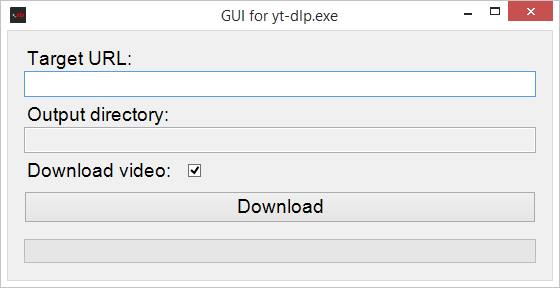
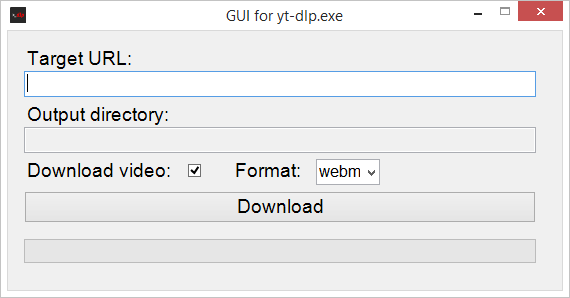
Added format selection

diff --git a/yt-dlp-gui.cs b/yt-dlp-gui.cs
@@ -33,6 +33,8 @@ namespace Lafika
 		private static TextBox Link;
 		private static Label DirectoryLabel;
 		private static TextBox Directory;
+		private static Label FormatLabel;
+		private static ComboBox Format;
 		private static Label DownloadVideoLabel;
 		private static CheckBox DownloadVideo;
 		private static Button Download;
@@ -81,6 +83,33 @@ namespace Lafika
 			}
 		}
 		
+		// Download video checkbox pressed event function
+		private static void Checkbox_Pressed(Object Sender, EventArgs Arguments)
+		{
+			if(DownloadVideo.Checked == true)
+			{
+				Format.Items.Clear();
+				Format.ResetText();
+				Format.Items.Add("webm");
+				Format.Items.Add("mp4");
+				Format.Items.Add("mkv");
+				Format.Items.Add("mov");
+				Format.Items.Add("avi");
+				Format.SelectedIndex = 0;
+			}
+			else
+			{
+				Format.Items.Clear();
+				Format.ResetText();
+				Format.Items.Add("opus");
+				Format.Items.Add("vorbis");
+				Format.Items.Add("mp3");
+				Format.Items.Add("wav");
+				Format.Items.Add("flac");
+				Format.SelectedIndex = 0;
+			}
+		}
+		
 		// Download button pressed event function
 		private static void Download_Pressed(Object Sender, EventArgs Arguments)
 		{
@@ -97,11 +126,11 @@ namespace Lafika
 			string Parameters = "--no-playlist ";
 			if(DownloadVideo.Checked == true)
 			{
-				Parameters = Parameters + Link.Text;
+				Parameters = Parameters + "--recode-video " + Format.SelectedText + " " + Link.Text;
 			}
 			else
 			{
-				Parameters = Parameters + "--extract-audio " + Link.Text;
+				Parameters = Parameters + "--extract-audio --audio-format " + Format.SelectedText + " " + Link.Text;
 			}
 			
 			// Add the output directory to the parameters string
@@ -154,8 +183,10 @@ namespace Lafika
 			Window = new Form();
 			Window.Width = 560;
 			Window.Height = 288;
+			Window.MaximizeBox = false;
+			Window.FormBorderStyle = FormBorderStyle.FixedSingle;
 			Window.FormClosed += Window_Closed;
-			Window.Icon = Icon.ExtractAssociatedIcon(System.Reflection.Assembly.GetEntryAssembly().Location);
+			Window.Icon = Icon.ExtractAssociatedIcon(Assembly.GetEntryAssembly().Location);
 			Window.Text = "GUI for yt-dlp.exe";
 			
 			// Create fonts
@@ -198,6 +229,29 @@ namespace Lafika
 			Directory.Click += Directory_Pressed;
 			Directory.Font = Small;
 			
+			// Create the format label
+			FormatLabel = new Label();
+			FormatLabel.Left = 224;
+			FormatLabel.Top = 128;
+			FormatLabel.Width = 80;
+			FormatLabel.Height = 24;
+			FormatLabel.Font = Regular;
+			FormatLabel.Text = "Format:";
+			
+			// Create the format box
+			Format = new ComboBox();
+			Format.Left = 308;
+			Format.Top = 128;
+			Format.Width = 64;
+			Format.Height = 24;
+			Format.Font = Small;
+			Format.Items.Add("webm");
+			Format.Items.Add("mp4");
+			Format.Items.Add("mkv");
+			Format.Items.Add("mov");
+			Format.Items.Add("avi");
+			Format.SelectedIndex = 0;
+			
 			// Create the download video label
 			DownloadVideoLabel = new Label();
 			DownloadVideoLabel.Left = 16;
@@ -214,6 +268,7 @@ namespace Lafika
 			DownloadVideo.Width = 32;
 			DownloadVideo.Height = 32;
 			DownloadVideo.Checked = true;
+			DownloadVideo.Click += Checkbox_Pressed;
 			
 			// Create the download button
 			Download = new Button();
@@ -239,6 +294,8 @@ namespace Lafika
 			Window.Controls.Add(Link);
 			Window.Controls.Add(DirectoryLabel);
 			Window.Controls.Add(Directory);
+			Window.Controls.Add(FormatLabel);
+			Window.Controls.Add(Format);
 			Window.Controls.Add(DownloadVideoLabel);
 			Window.Controls.Add(DownloadVideo);
 			Window.Controls.Add(Download);
